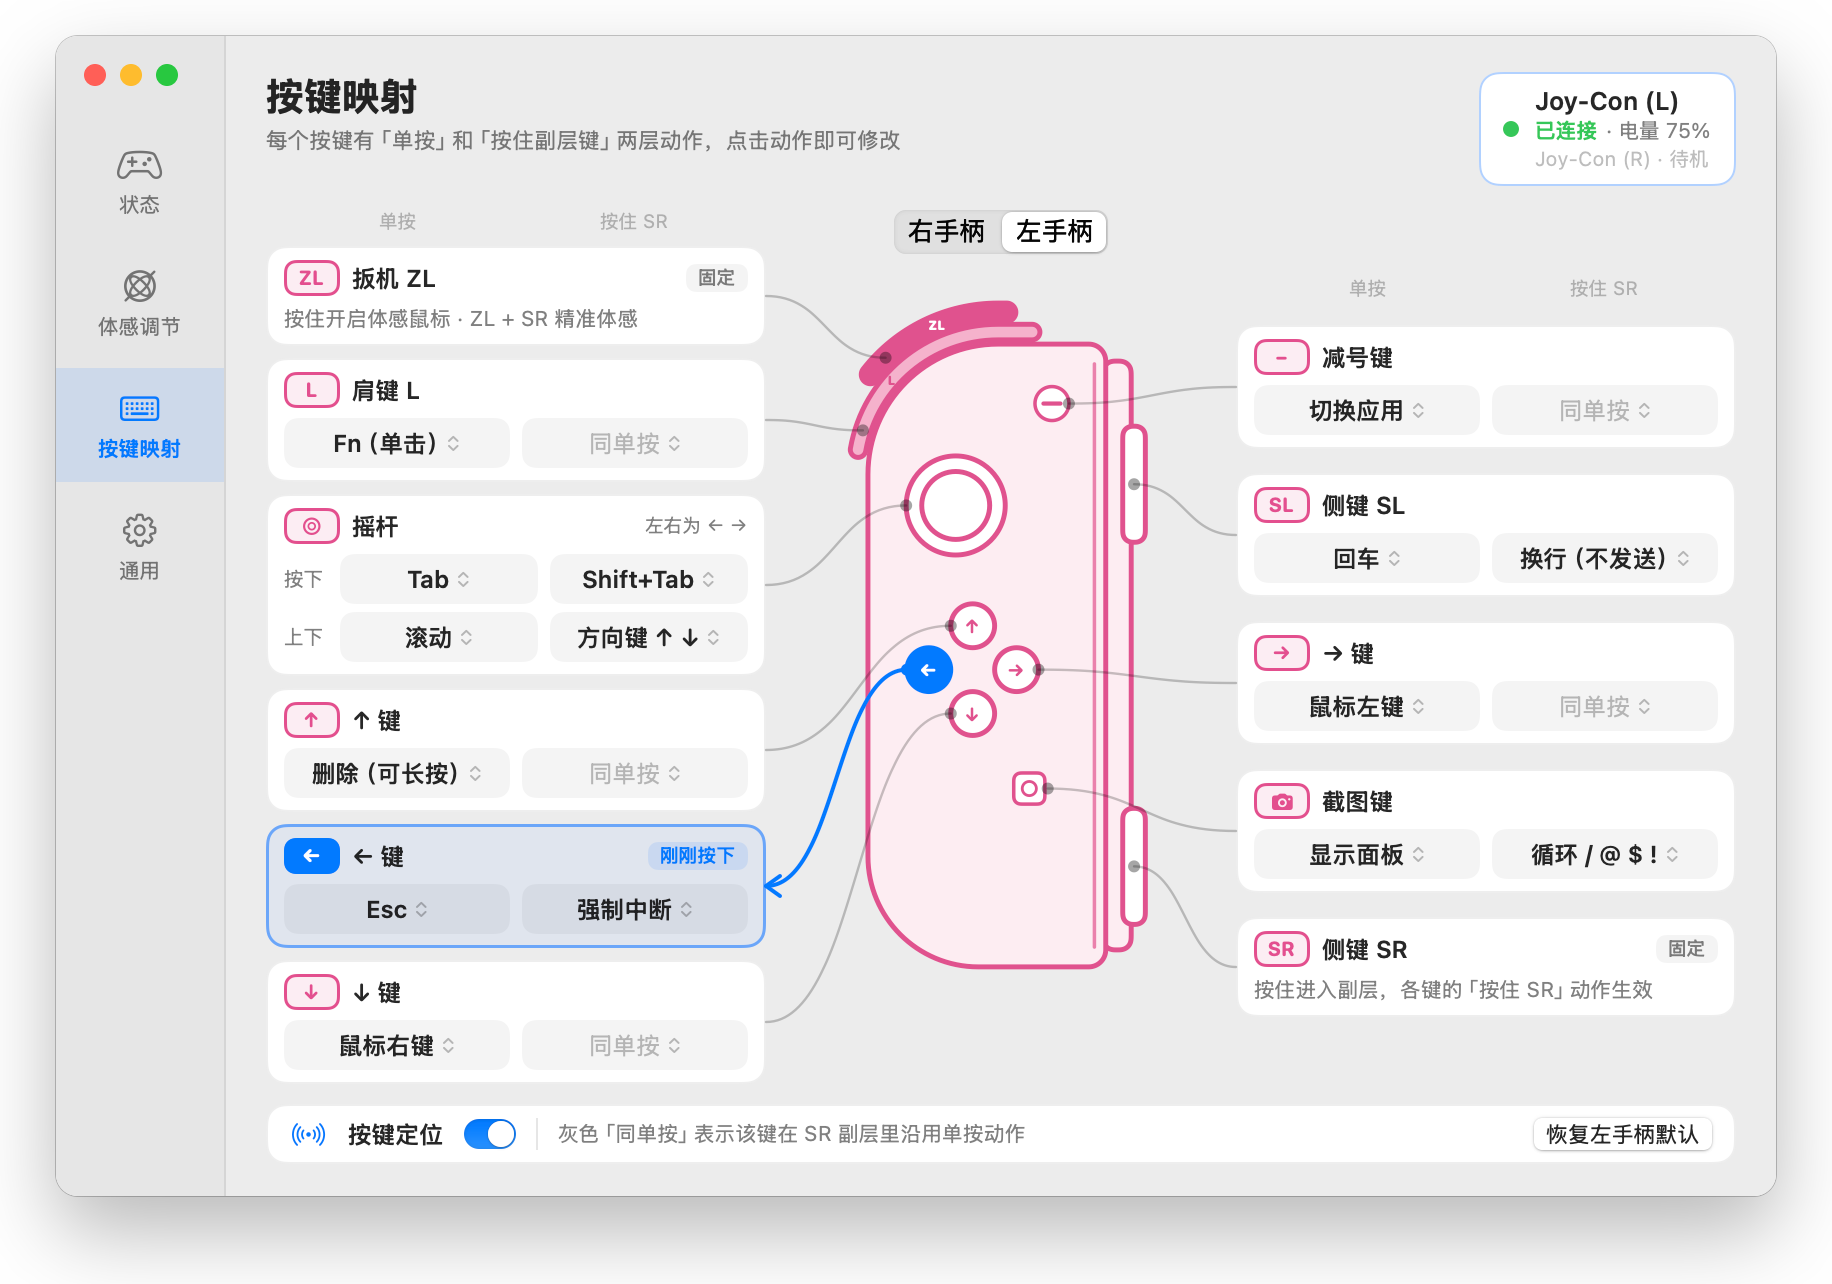
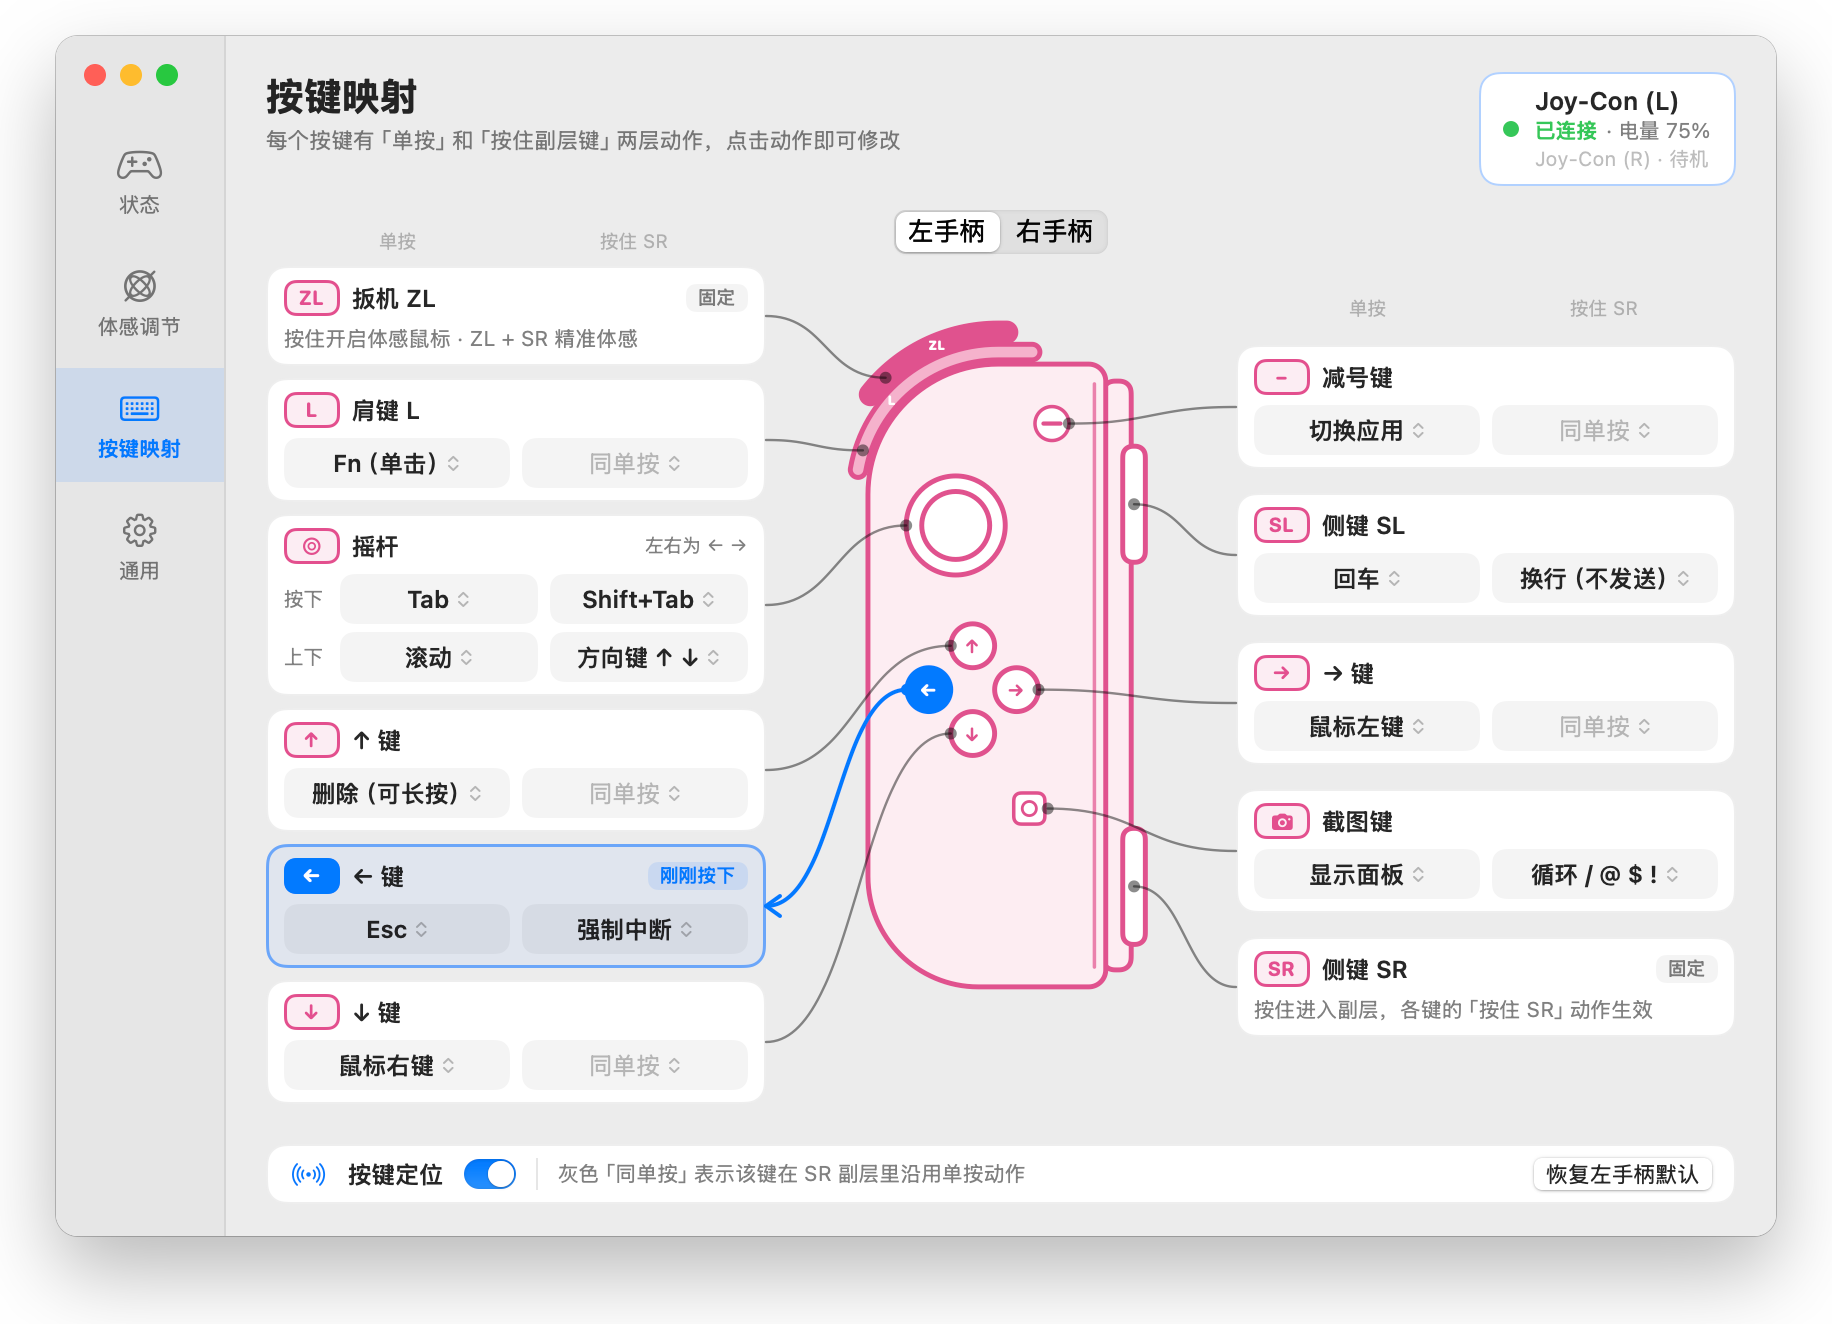
Use light-mode screenshots and describe standby switching

diff --git a/README.md b/README.md
@@ -94,25 +94,21 @@ The same mapping is listed in English under [Default button mapping](#default-bu
 
 ## Screenshots
 
-The screenshots follow GitHub's light or dark theme.
-
 ### Menu bar panel
 
 Click the menu bar icon to see the connection and battery, toggle the remote, and jump to any settings page.
 
 <picture>
-  <source media="(prefers-color-scheme: dark)" srcset="docs/assets/screenshots/menu-bar-popover-dark.png">
   <img src="docs/assets/screenshots/menu-bar-popover.png" alt="Menu bar panel: connection status, battery, remote toggle and settings shortcuts" width="420">
 </picture>
 
 ### Button Mapping
 
-Set each button's "press" and "hold layer key" actions on a drawing of the controller. The Right controller | Left controller
-(右手柄 | 左手柄) switch at the top picks which one you are editing, starting with the one in use. Pressing a button on
+Set each button's "press" and "hold layer key" actions on a drawing of the controller. The Left controller | Right controller
+(左手柄 | 右手柄) switch at the top picks which one you are editing, starting with the one in use. Pressing a button on
 the Joy-Con highlights its card and leader line.
 
 <picture>
-  <source media="(prefers-color-scheme: dark)" srcset="docs/assets/screenshots/settings-mapping-dark.png">
   <img src="docs/assets/screenshots/settings-mapping.png" alt="Button Mapping page: a controller drawing in the middle with a settings card for each button on both sides">
 </picture>
 
@@ -121,7 +117,6 @@ the Joy-Con highlights its card and leader line.
 Connection, battery, zero-point calibration, live input, and a pre-flight checklist with a button for each missing permission.
 
 <picture>
-  <source media="(prefers-color-scheme: dark)" srcset="docs/assets/screenshots/settings-status-dark.png">
   <img src="docs/assets/screenshots/settings-status.png" alt="Status page: connection and battery, calibration progress, live input and the pre-flight checklist">
 </picture>
 
@@ -130,7 +125,6 @@ Connection, battery, zero-point calibration, live input, and a pre-flight checkl
 A diagram explains how wrist movements map to the cursor. Every slider has a description, and a tick marks its default value.
 
 <picture>
-  <source media="(prefers-color-scheme: dark)" srcset="docs/assets/screenshots/settings-motion-dark.png">
   <img src="docs/assets/screenshots/settings-motion.png" alt="Motion page: direction diagram, invert switches and five feel sliders">
 </picture>
 
@@ -139,7 +133,6 @@ A diagram explains how wrist movements map to the cursor. Every slider has a des
 Launch at login, idle sleep, permission status, reset to defaults, and version information.
 
 <picture>
-  <source media="(prefers-color-scheme: dark)" srcset="docs/assets/screenshots/settings-general-dark.png">
   <img src="docs/assets/screenshots/settings-general.png" alt="General page: launch and power saving, system permissions, reset and about">
 </picture>
 
@@ -185,14 +178,14 @@ automatically; you do not need the invert switches.
 Each controller keeps its own button mapping; switch between them at the top of the Button Mapping page.
 
 <picture>
-  <source media="(prefers-color-scheme: dark)" srcset="docs/assets/screenshots/settings-mapping-left-dark.png">
   <img src="docs/assets/screenshots/settings-mapping-left.png" alt="Button Mapping page with the left controller selected">
 </picture>
 
 **With both connected:** whichever you press a button on takes over. Pick up the other one and press any
-button to switch; the idle one is shown as standby (待机). Bumping a stick or moving a controller never
+button to switch (that press only switches; it acts if you keep holding it); the idle one is shown as standby (待机). Bumping a stick or moving a controller never
 switches, and neither does pressing the other controller while you hold the trigger or any other button.
-If the controller in use disconnects or goes to sleep, the other one takes over. Sleep now (立即休眠) puts
+The standby controller only reports button presses, so two connected controllers do not make motion
+stutter. If the controller in use disconnects or goes to sleep, the other one takes over. Sleep now (立即休眠) puts
 every connected controller to sleep.
 
 ## Requirements
